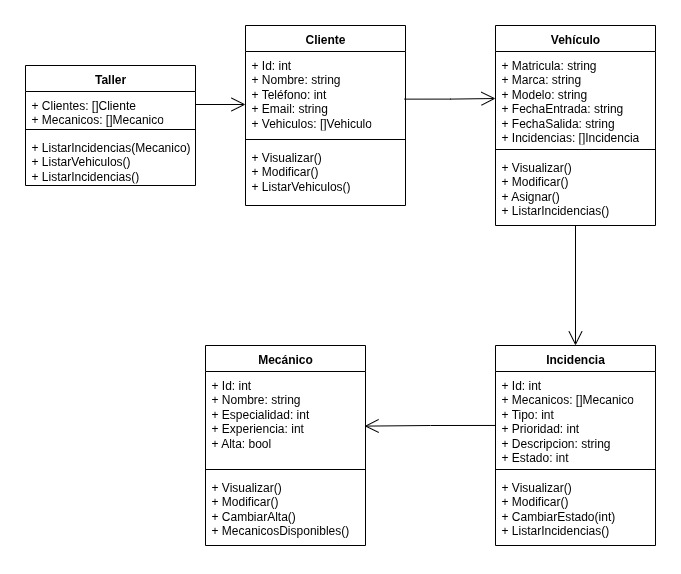
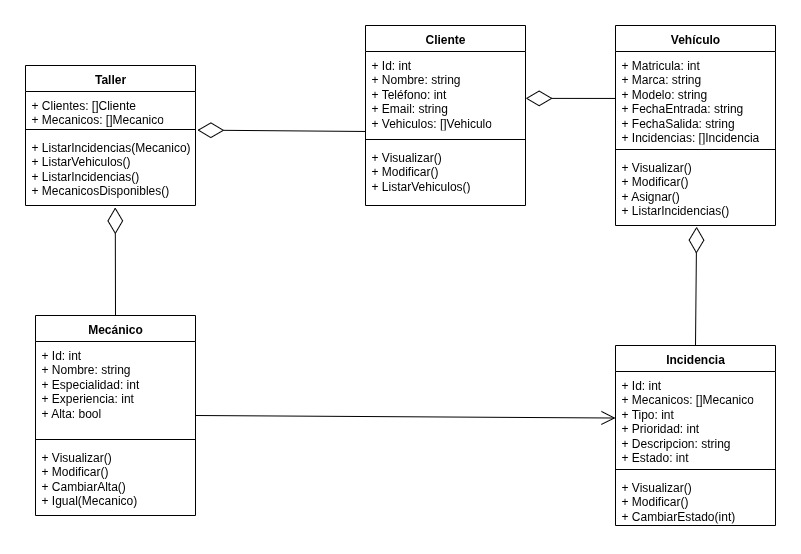
Funciones Incidencia y Vehiculo

diff --git a/p1.go b/p1.go
@@ -13,7 +13,7 @@ const END = "\033[0m"
 
 type Taller struct{
   Clientes []Cliente
-  Plazas *[]Vehiculo
+  Plazas []Vehiculo
   Mecanicos []Mecanico
   UltimoId int
 }
@@ -34,9 +34,9 @@ func (t *Taller)Menu(){
         case 1:
           // Listar Incidencias
         case 2:
-          // Listar Vehiculos
+          // Clientes con vehiculo
         case 3:
-          // Listar por mecánico
+          // Incidencias por mecánico
         case 4:
           t.MecanicosDisponibles()
         default:
@@ -269,7 +269,7 @@ type Cliente struct{
 }
 
 func (c *Cliente)Inicializar(){
-  var exit bool = false  
+  var exit bool = false
 
   fmt.Printf("%sID%s\n", BOLD, END)
   leerInt(&c.Id)
@@ -300,6 +300,11 @@ func (c *Cliente)Inicializar(){
       exit = true
     }
   }
+
+  // Ya está creado el cliente base (sin vehículos)
+  if !exit{
+    c.MenuVehiculos()
+  }
 }
 
 func (c Cliente)Info() (string){
@@ -311,7 +316,59 @@ func (c Cliente)Visualizar(){
   fmt.Printf("%sNombre: %s%s\n", BOLD, END, c.Nombre)
   fmt.Printf("%sTeléfono: %s%09d\n", BOLD, END, c.Telefono)
   fmt.Printf("%sEmail: %s%s\n", BOLD, END, c.Email)
-  // Vehiculos
+  fmt.Printf("%sVehiculos:%s\n", BOLD, END)
+  c.ListarVehiculos()
+}
+
+func (c *Cliente)MenuVehiculos(){
+  var v Vehiculo  
+  menu := []string{
+    "Seleccione un vehículo",
+    "Crear vehículo",
+    "Eliminar vehículo"}
+
+  for{
+    menu = []string{
+      "Seleccione un vehículo",
+      "Crear vehículo",
+      "Eliminar vehículo"}
+    for _, v := range c.Vehiculos{
+      menu = append(menu, v.Info())
+    }
+
+    opt, status := menuFunc(menu)
+
+    if status == 0{
+      if opt == 1{
+        v.Inicializar()
+        c.CrearVehiculo(v)
+      } else if opt == 2{
+        // Eliminar vehiculo
+      } else {
+        c.Vehiculos[opt - 3].Menu()
+      }
+    } else if status == 2{
+      break
+    }
+  }
+}
+
+func (c *Cliente)CrearVehiculo(v Vehiculo){
+  if v.Valido() && c.ObtenerIndiceVehiculo(v) == -1{
+    c.Vehiculos = append(c.Vehiculos, v)
+  } else {
+    errorMsg("No se ha podido crear el vehículo")
+  }
+}
+
+func (c Cliente)ListarVehiculos(){
+  if len(c.Vehiculos) > 0{
+    for _, v := range c.Vehiculos{
+      fmt.Printf("  %s·%s%s\n", BOLD, END, v.Info())
+    }
+  } else {
+    fmt.Println(BOLD + "  SIN VEHICULOS" + END)
+  }
 }
 
 func (c *Cliente)Menu(){
@@ -372,6 +429,8 @@ func (c *Cliente)Modificar(){
           leerStr(&buf)
           c.Email = buf
           infoMsg("Email modificado")
+        case 5:
+          c.MenuVehiculos()
       }
     } else if status == 2{
       break
@@ -387,9 +446,21 @@ func (c1 Cliente)Igual(c2 Cliente) (bool){
   return c1.Id == c2.Id
 }
 
+func (c Cliente)ObtenerIndiceVehiculo(v_in Vehiculo) (int){
+  var res int = -1
+
+  for i, v := range c.Vehiculos{
+    if v.Igual(v_in){
+      res = i
+    }
+  }
+
+  return res
+}
+
 
 type Vehiculo struct{
-  Matricula string
+  Matricula int
   Marca string
   Modelo string
   FechaEntrada string
@@ -398,11 +469,11 @@ type Vehiculo struct{
 }
 
 func (v Vehiculo)Info() (string){
-  return fmt.Sprintf("%s %s (%s)", v.Marca, v.Modelo, v.Matricula)
+  return fmt.Sprintf("%s %s (%05d)", v.Marca, v.Modelo, v.Matricula)
 }
 
 func (v Vehiculo)Visualizar(){
-  fmt.Printf("%sMatricula: %s%s\n", BOLD, END, v.Matricula)
+  fmt.Printf("%sMatricula: %s%05d\n", BOLD, END, v.Matricula)
   fmt.Printf("%sMarca: %s%s\n", BOLD, END, v.Marca)
   fmt.Printf("%sModelo: %s%s\n", BOLD, END, v.Modelo)
   fmt.Printf("%sFecha de entrada: %s%s\n", BOLD, END, v.FechaEntrada)
@@ -410,14 +481,124 @@ func (v Vehiculo)Visualizar(){
   // Incidencias
 }
 
+func (v *Vehiculo)Menu(){}
+
+func (v *Vehiculo)Inicializar(){
+  var exit bool = false
+
+  fmt.Printf("%sMatricula%s\n", BOLD, END)
+  leerInt(&v.Matricula)
+  if v.Matricula == 0{
+    exit = true
+  }
+
+  if !exit{
+    fmt.Printf("%sMarca%s\n", BOLD, END)
+    leerStr(&v.Marca)
+    if len(v.Marca) == 0{
+      exit = true
+    }
+  }
+
+  if !exit{
+    fmt.Printf("%sModelo%s\n", BOLD, END)
+    leerStr(&v.Modelo)
+    if len(v.Modelo) == 0{
+      exit = true
+    }
+  }
+
+  if !exit{
+    fmt.Printf("%sFecha de entrada%s\n", BOLD, END)
+    leerStr(&v.FechaEntrada)
+    if len(v.FechaEntrada) == 0{
+      exit = true
+    }
+  }
+
+  if !exit{
+    fmt.Printf("%sFecha estimada de salida%s\n", BOLD, END)
+    leerStr(&v.FechaSalida)
+    if len(v.FechaSalida) == 0{
+      exit = true
+    }
+  }
+
+  if !exit{
+    fmt.Printf("%sIncidencias:%s\n", BOLD, END)
+    v.MenuIncidencias()
+  }
+}
+
+func (v *Vehiculo)MenuIncidencias(){
+  var i Incidencia  
+  menu := []string{
+    "Seleccione una incidencia",
+    "Crear incidencia",
+    "Eliminar incidencia"}
+
+  for{
+    menu = []string{
+      "Seleccione una incidencia",
+      "Crear incidencia",
+      "Eliminar incidencia"}
+    for _, i := range v.Incidencias{
+      menu = append(menu, i.Info())
+    }
+
+    opt, status := menuFunc(menu)
+
+    if status == 0{
+      if opt == 1{
+        i.Inicializar()
+        v.CrearIncidencia(i)
+      } else if opt == 2{
+        // Eliminar vehiculo
+      } else {
+        v.Incidencias[opt - 3].Menu()
+      }
+    } else if status == 2{
+      break
+    }
+  }
+}
+
+func (v Vehiculo)ObtenerIndiceIncidencia(i_in Incidencia) (int){
+  var res int = -1
+
+  for i, inc := range v.Incidencias{
+    if inc.Igual(i_in){
+      res = i
+    }
+  }
+
+  return res
+}
+
+func (v *Vehiculo)CrearIncidencia(i Incidencia){
+  if i.Valido() && v.ObtenerIndiceIncidencia(i) == -1{
+    v.Incidencias = append(v.Incidencias, i)
+  } else {
+    errorMsg("No se ha podido crear el vehículo")
+  }
+}
+
+func (v Vehiculo)Valido() (bool){
+  return v.Matricula > 0 && len(v.Marca) > 0 && len(v.Modelo) > 0
+}
+
+func (v1 Vehiculo)Igual(v2 Vehiculo) (bool){
+  return v1.Matricula == v2.Matricula
+}
+
 
 type Incidencia struct{
   Id int
   Mecanicos []Mecanico
-  Tipo int
-  Prioridad int
+  Tipo int // 1 (Mecánica), 2 (Electrónica), 3(Carrocería)
+  Prioridad int // 1 a 3 (Alta a baja)
   Descripcion string
-  Estado int
+  Estado int // 0 (Cerrado), 1 (Abierta), 2 (En proceso)
 }
 
 func (i Incidencia)Info() (string){
@@ -431,6 +612,53 @@ func (i Incidencia)Visualizar(){
   fmt.Printf("%sFecha de entrada: %s%s\n", BOLD, END, i.Descripcion)
   fmt.Printf("%sFecha estimada de entrada: %s%d\n", BOLD, END, i.Estado)
   // Mecanicos
+}
+
+func (i *Incidencia)Menu(){}
+
+func (i *Incidencia)Inicializar(){
+  var exit bool = false
+
+  fmt.Printf("%sID%s\n", BOLD, END)
+  leerInt(&i.Id)
+  if i.Id == 0{
+    exit = true
+  }
+
+  if !exit{
+    fmt.Printf("%sTipo%s\n", BOLD, END)
+    leerInt(&i.Tipo)
+    if i.Tipo == 0{
+      exit = true
+    }
+  }
+
+  if !exit{
+    fmt.Printf("%sPrioridad%s\n", BOLD, END)
+    leerInt(&i.Prioridad)
+    if i.Prioridad == 0{
+      exit = true
+    }
+  }
+
+  if !exit{
+    fmt.Printf("%sDescripción%s\n", BOLD, END)
+    leerStr(&i.Descripcion)
+    if len(i.Descripcion) == 0{
+      exit = true
+    } else {
+      i.Estado = 1
+    }
+  }
+
+}
+
+func (i Incidencia)Valido() (bool){
+  return i.Id > 0
+}
+
+func (i1 Incidencia)Igual(i2 Incidencia) (bool){
+  return i1.Id == i2.Id
 }
 
 
@@ -653,13 +881,13 @@ func main(){
     "Menu principal",
     "Taller",
     "Clientes",
-    "Vehiculos",
-    "Incidencias",
     "Mecánicos"}
 
   // INICIALIZAR
   t.CrearMecanico("Pepe", 0, 0)
   c := Cliente{Id: 1, Nombre: "Laura", Telefono: 1, Email: "laura27@mail.com"}
+  v := Vehiculo{Matricula: 1234, Marca: "Toyota", Modelo: "Camry", FechaEntrada: "14-04-2009", FechaSalida: "19-04-2009"}
+  c.CrearVehiculo(v)
   t.CrearCliente(c)
   // FIN INICIALIZAR
 
@@ -673,10 +901,6 @@ func main(){
         case 2:
           t.MenuClientes()
         case 3:
-          // Vehiculos
-        case 4:
-          // Incidencias
-        case 5:
           t.MenuMecanicos()
       }
     } else if status == 2{
